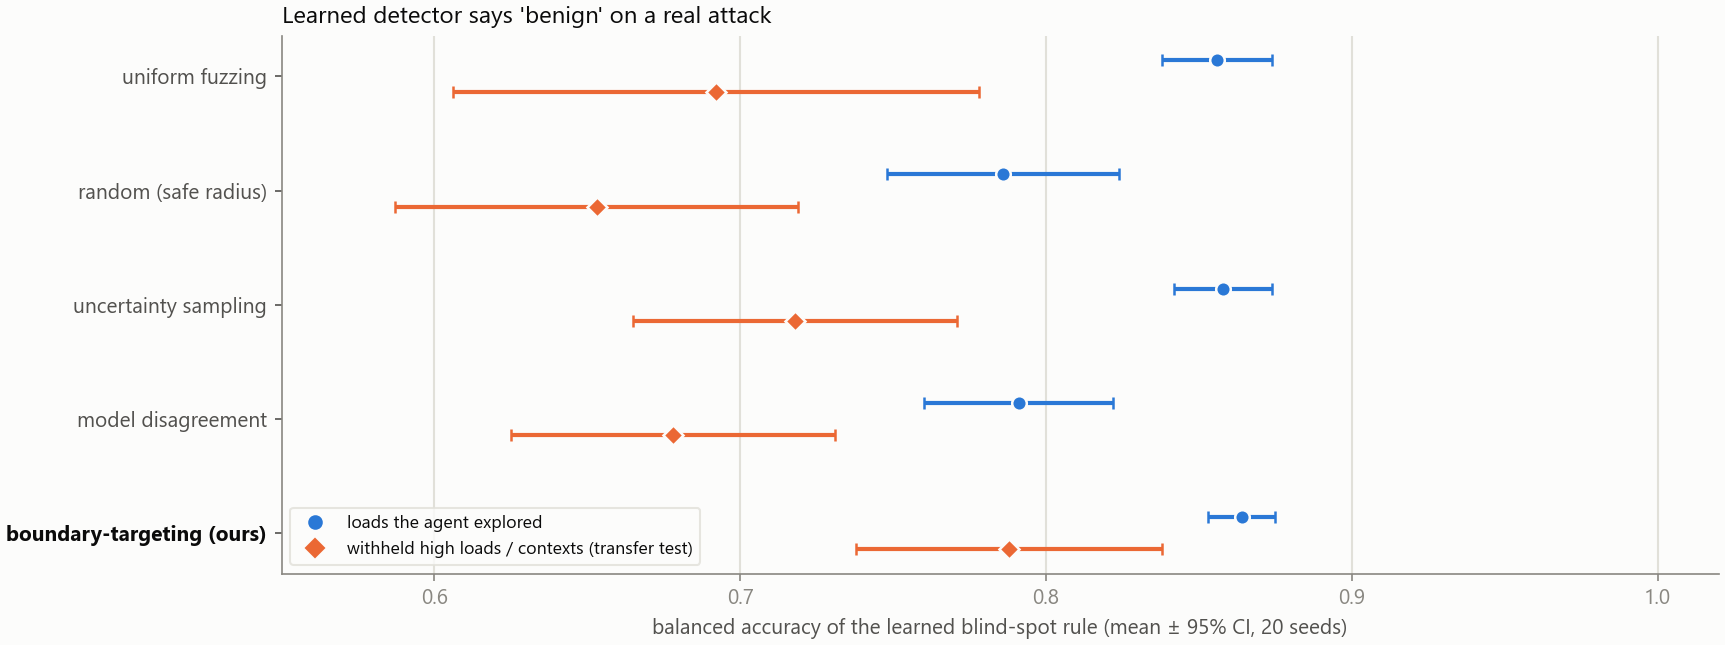
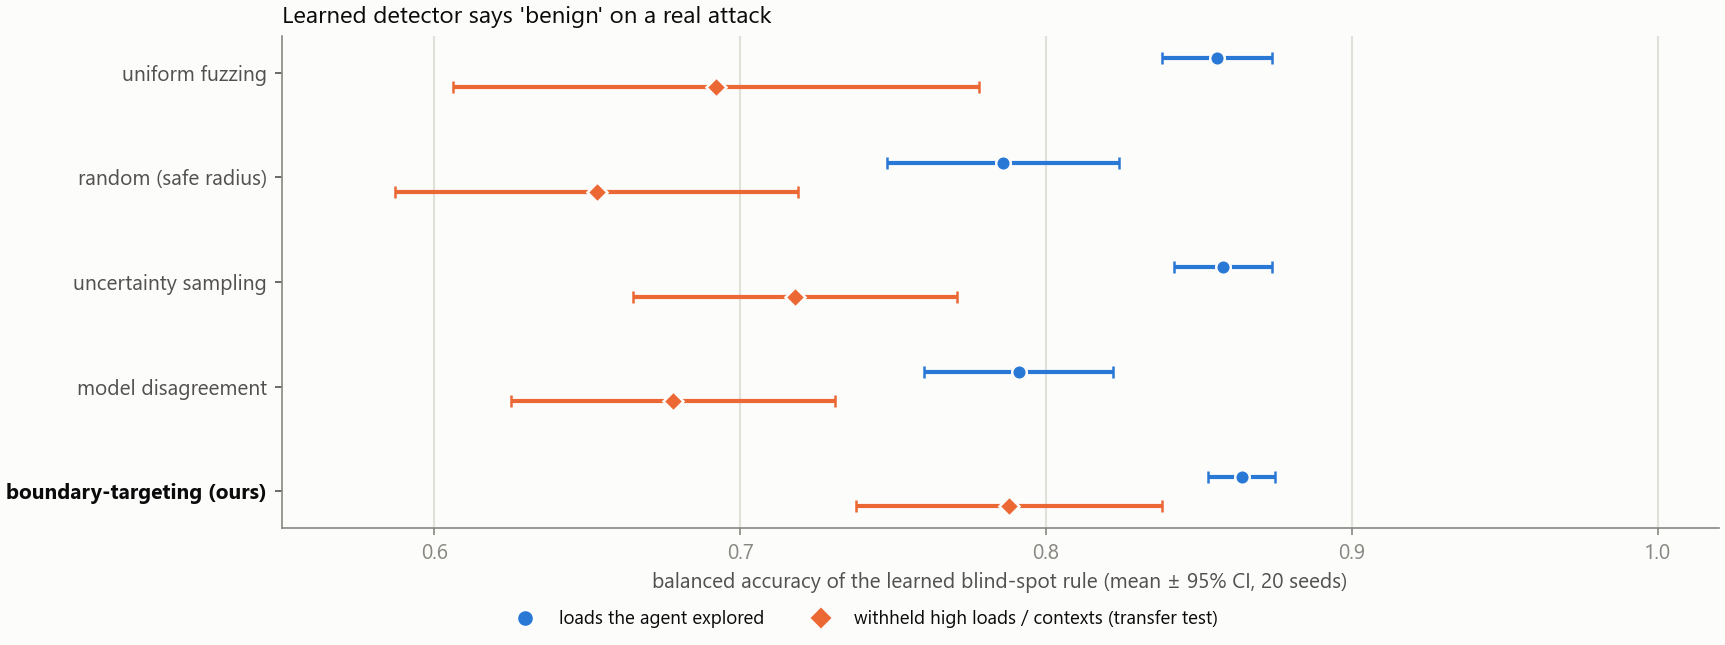
Add real-data audit on KDD Cup 99 and report the negative result
Learned detector with held-out attack families probed with real records.
Uniform fuzzing beats boundary-targeting here; the README now includes a
scorecard stating where the method does and does not win. Also fixes chart
legend placement and axis ranges.

diff --git a/abd/real_detector_env.py b/abd/real_detector_env.py
@@ -1,0 +1,82 @@
+"""Real-data audit: a learned intrusion detector on the public KDD Cup 99 (10%) dataset.
+
+Nothing is planted here. The detector is a gradient-boosted classifier trained on normal
+traffic plus the common attack families; the rare remote-to-local / user-to-root families
+are held out of training, which gives the detector a natural coverage gap.
+
+The agent probes the detector with REAL attack records. A query is a point x in [0,1]^3,
+the rank-normalised values of three interpretable features:
+  x0 = destination bytes   (the 'context' axis; high ranks are withheld from exploration)
+  x1 = source bytes
+  x2 = connection count
+The environment snaps x to the nearest real attack record and returns the detector's
+attack probability for it (random choice among the 3 nearest, which gives query noise).
+Ground truth used for scoring is the detector's decision on the nearest record.
+
+Data note: KDD Cup 99 is old and has known redundancy/artifacts. It is used here as a
+public, real, labelled benchmark for the method, not as a model of modern traffic.
+Requires network on first use (scikit-learn downloads and caches the dataset).
+"""
+import functools
+
+import numpy as np
+import pandas as pd
+from scipy.spatial import cKDTree
+from sklearn.datasets import fetch_kddcup99
+from sklearn.ensemble import HistGradientBoostingClassifier
+from sklearn.model_selection import train_test_split
+
+UNSEEN = ["warezclient", "guess_passwd", "buffer_overflow", "warezmaster", "imap", "rootkit",
+          "loadmodule", "ftp_write", "multihop", "phf", "perl", "spy"]
+KNOBS = ["dst_bytes", "src_bytes", "count"]
+
+
+@functools.lru_cache(maxsize=1)
+def _build(data_home=None):
+    df = fetch_kddcup99(percent10=True, as_frame=True, data_home=data_home).frame
+    df["labels"] = df["labels"].astype(str).str.strip(".")
+    for c in ["protocol_type", "service", "flag"]:
+        df[c] = df[c].astype(str).astype("category").cat.codes
+    feat = [c for c in df.columns if c != "labels"]
+    for c in feat:
+        df[c] = pd.to_numeric(df[c])
+    df["att"] = (df["labels"] != "normal").astype(int)
+    feat = [c for c in df.columns if c not in ("labels", "att")]
+    train = df[~df["labels"].isin(UNSEEN)]
+    tr, te = train_test_split(train, test_size=0.3, random_state=0, stratify=train["labels"])
+    model = HistGradientBoostingClassifier(max_iter=100, random_state=0).fit(tr[feat], tr["att"])
+    pool = pd.concat([te[te["att"] == 1], df[df["labels"].isin(UNSEEN)]])
+    pool = pool.groupby("labels", group_keys=False).sample(frac=1, random_state=0)   # shuffle, keep all cols
+    pool = pool.groupby("labels", group_keys=False).head(1500).sample(frac=1, random_state=1).reset_index(drop=True)
+    pool["p"] = model.predict_proba(pool[feat])[:, 1]
+    ranks = np.column_stack([pool[k].rank(method="first").values / len(pool) for k in KNOBS])
+    return pool, ranks, cKDTree(ranks)
+
+
+class RealDetectorEnv:
+    dim = 3
+    safety_limit = 1e9
+
+    def __init__(self, noise_seed=0, data_home=None):
+        self.pool, self.ranks, self.tree = _build(data_home)
+        self.p = self.pool["p"].values
+        self.rng = np.random.default_rng(noise_seed)
+        self.violations = 0
+        self.n_queries = 0
+
+    def truth(self, X):
+        _, idx = self.tree.query(np.atleast_2d(X))
+        return self.p[idx]
+
+    def family_of(self, X):
+        _, idx = self.tree.query(np.atleast_2d(X))
+        return self.pool["labels"].values[idx]
+
+    def run(self, x):
+        self.n_queries += 1
+        _, idx = self.tree.query(np.asarray(x, float), k=3)
+        return float(self.p[self.rng.choice(idx)])
+
+    def detector_report(self):
+        g = self.pool.groupby("labels")["p"].agg(lambda s: float((s >= 0.5).mean()))
+        return g.sort_values()

diff --git a/scripts/make_results.py b/scripts/make_results.py
@@ -7,6 +7,7 @@ import os
 import re
 
 import matplotlib
+import numpy as np
 
 matplotlib.use("Agg")
 import matplotlib.pyplot as plt
@@ -49,7 +50,8 @@ def blind_chart(src="blind_spot_results.txt", out="results_blind_spot.png"):
              "discriminating": "model disagreement", "boundary": "boundary-targeting (ours)"}
     titles = {"delta": "Blind spot: indistinguishable from no perturbation",
               "adaptive": "Blind spot: below load-adaptive alarm threshold",
-              "ml_detector": "Learned detector says 'benign' on a real attack"}
+              "ml_detector": "Learned detector says 'benign' on a real attack",
+              "real_kdd": "Real KDD Cup 99 attacks missed by a learned detector"}
     fig, axes = plt.subplots(1, len(blocks), figsize=(11.5, 4.3), sharey=True, constrained_layout=True)
     axes = [axes] if len(blocks) == 1 else axes
     for ax, (kind, rows) in zip(axes, blocks.items()):
@@ -63,12 +65,13 @@ def blind_chart(src="blind_spot_results.txt", out="results_blind_spot.png"):
         for t, k in zip(ax.get_yticklabels(), order):
             if k == "boundary":
                 t.set_fontweight("bold"); t.set_color(INK)
-        ax.set_xlim(0.55, 1.02); ax.xaxis.grid(True, color=GRID, lw=1); ax.set_axisbelow(True)
+        lo = min(rows[k][key][0] - rows[k][key][1] for k in order for key in ('logit_seen', 'logit_wh'))
+        ax.set_xlim(max(0.3, np.floor((lo - 0.02) / 0.05) * 0.05), 1.02); ax.xaxis.grid(True, color=GRID, lw=1); ax.set_axisbelow(True)
         ax.set_xlabel("balanced accuracy of the learned blind-spot rule (mean ± 95% CI, 20 seeds)")
         ax.set_title(titles[kind], loc="left", fontsize=11.5, color=INK)
     h1 = plt.Line2D([], [], color=BLUE, marker="o", ls="", label="loads the agent explored")
     h2 = plt.Line2D([], [], color=ORANGE, marker="D", ls="", label="withheld high loads / contexts (transfer test)")
-    axes[0].legend(handles=[h1, h2], loc="lower left", fontsize=8.5, facecolor=SURF, edgecolor=GRID)
+    fig.legend(handles=[h1, h2], loc="outside lower center", ncol=2, fontsize=9, frameon=False)
     fig.savefig(os.path.join(OUT, out), dpi=150)
     plt.close(fig)
 
@@ -120,6 +123,9 @@ if __name__ == "__main__":
     if os.path.exists(os.path.join(RES, "ml_detector_results.txt")):
         blind_chart("ml_detector_results.txt", "results_ml_detector.png")
         terminal("terminal_ml_detector.png", "ml_detector_results.txt", "python run_ml_detector.py 20", 24)
+    if os.path.exists(os.path.join(RES, "real_detector_results.txt")):
+        blind_chart("real_detector_results.txt", "results_real_detector.png")
+        terminal("terminal_real_detector.png", "real_detector_results.txt", "python run_real_detector.py 20", 40)
     missing_chart()
     terminal("terminal_missing_variable.png", "missing_variable_results.txt", "python run_missing.py 20", 10)
     print("results assets done")

diff --git a/run_real_detector.py b/run_real_detector.py
@@ -1,0 +1,56 @@
+"""Real-data audit (KDD Cup 99): where does a learned intrusion detector go blind, found black-box?
+
+Same output format as run_blind.py so scripts/make_results.py can chart it.
+"""
+import sys
+
+import numpy as np
+
+from abd.blindspot import LOAD_CAP, BlindAgent
+from abd.real_detector_env import UNSEEN, RealDetectorEnv
+from run_blind import bal_acc, ci
+
+_e = RealDetectorEnv()
+T = np.random.default_rng(99).uniform(0, 1, (6000, 3))
+TRUE = _e.truth(T) < 0.5
+SEEN = T[:, 0] <= LOAD_CAP
+POOL_MISS = _e.p < 0.5
+FAM = _e.pool["labels"].values
+
+
+def trial(strategy, seed, budget=60):
+    env = RealDetectorEnv(noise_seed=seed)
+    a = BlindAgent(env, strategy, step_radius=0.2, seed=seed, label_mode="real")
+    a.bootstrap(n=25, hi=0.6)
+    a.calibrate_null()
+    a.explore(budget)
+    a.blind_rule()
+    out = []
+    for p in (a.predict_blind(T), a.predict_blind_logit(T)):
+        out += [bal_acc(p[SEEN], TRUE[SEEN]), bal_acc(p[~SEEN], TRUE[~SEEN])]
+    return (*out, a, a.predict_blind_logit(env.ranks))
+
+
+if __name__ == "__main__":
+    n = int(sys.argv[1]) if len(sys.argv) > 1 else 20
+    rep = _e.detector_report()
+    print("##### ground truth: detector recall by attack family (probe pool, never shown to the agent)")
+    print("held-out families (not in training): " + ", ".join(UNSEEN))
+    print("lowest recall : " + ", ".join(f"{k} {v:.2f}" for k, v in rep.head(8).items()))
+    print(f"pool of real attack records: {len(_e.pool)}, missed by the detector: {POOL_MISS.mean():.1%}")
+    print(f"\n##### blind-spot type: real_kdd  (true share: seen contexts {TRUE[SEEN].mean():.2f}, withheld {TRUE[~SEEN].mean():.2f})")
+    store, ex = {}, None
+    for s in ["uniform", "random", "uncertainty", "discriminating", "boundary"]:
+        R = [trial(s, i) for i in range(n)]
+        store[s] = np.array([r[5] for r in R])
+        print(f"{s:15s} TREE seen {ci([r[0] for r in R])} withheld {ci([r[1] for r in R])} | "
+              f"LOGIT seen {ci([r[2] for r in R])} withheld {ci([r[3] for r in R])}", flush=True)
+        if s == "boundary":
+            ex = R[0][4]
+    print("\n##### share of REAL records the agent's rule flags as a blind spot (mean over seeds, logistic rule)")
+    print(f"{'':16s}{'missed families':>16s}{'caught families':>17s}")
+    for s, P in store.items():
+        flag = P.mean(0)                                   # per-record flag frequency across seeds
+        print(f"{s:16s}{flag[POOL_MISS].mean():16.2f}{flag[~POOL_MISS].mean():17.2f}")
+    print("(first column = fraction of truly-missed attack records flagged; second = false-flag rate on detected ones)")
+    print("\nExample tree rule (boundary agent, seed 0; axes: load=dst_bytes rank, magnitude=src_bytes rank, non_stealth=count rank):\n" + ex.rules())

diff --git a/abd/blindspot.py b/abd/blindspot.py
@@ -38,10 +38,14 @@ class BlindAgent(Agent):
         z = [self.env.run([l, 0.0, self.rng.uniform()]) for l in L]
         self.null = _poly(2).fit(L[:, None], z)
 
+    def _impact(self, X):
+        # real-data mode: every probed record is a genuine attack, so every point is 'impactful'
+        return np.ones(len(X), bool) if self.mode == "real" else X[:, 1] > IMPACT
+
     def labels(self, X, y):
-        impact = X[:, 1] > IMPACT
+        impact = self._impact(X)
         ref = self.null.predict(X[:, :1])
-        if self.mode == "absolute":
+        if self.mode in ("absolute", "real"):
             blind = impact & (y < 0.5)                       # learned detector says 'benign' on a real attack
         elif self.mode == "adaptive":
             blind = impact & (y < adaptive_threshold(ref))   # detector would not raise an alarm
@@ -66,7 +70,7 @@ class BlindAgent(Agent):
                 rf = RandomForestClassifier(100, min_samples_leaf=2, random_state=self.seed)
                 rf.fit(Xa[impact], blind[impact])
                 unc = 1 - np.abs(2 * rf.predict_proba(C)[:, 1] - 1)
-                unc = np.where(C[:, 1] > IMPACT, unc, 0)       # only boundary inside impact zone
+                unc = np.where(self._impact(C), unc, 0)       # only boundary inside impact zone
                 score = unc if self.strategy == "uncertainty" else score / (score.max() + 1e-9) + unc
             elif self.strategy == "uncertainty":
                 score = self.rng.random(len(C))

diff --git a/README.md b/README.md
@@ -13,6 +13,17 @@ The testbed is **defensive and cyber-physical**: a simulated IEEE 14-bus power g
 
 > **Status: research prototype.** Everything below is computed by the code in this repo, on simulators I built or configured, so the results show the method works *in these sandboxes*. They are not evidence it works on real infrastructure. See [Limitations and prior art](#limitations-and-prior-art) before quoting any number.
 
+### Scorecard (read this first)
+
+| Setting | Boundary-targeting vs baselines |
+|---|---|
+| Grid detector, two blind-spot types (simulated) | **Better**, including on withheld loads |
+| Missing-variable discovery (simulated, planted driver) | **Better** with targeted design (p = 0.031 with confirmation) |
+| Learned ML detector, synthetic gap (planted) | Best, but overlaps uncertainty sampling |
+| **Learned detector, real KDD Cup 99 data** | **Not better: uniform fuzzing wins** |
+
+The method works where I built the environment. It did not beat the simplest baseline on the one real dataset tested so far.
+
 ---
 
 ## The idea in one picture
@@ -122,6 +133,29 @@ The detector's blind spot follows its **training gap**, not the attack: a strong
 - The tree rules in the saved output call the context knob `load` because the engine reuses the grid sandbox's input layout.
 - Next steps for credibility: real public intrusion-detection datasets, several model families, and comparison with robustness-testing tools.
 
+### 4. Real data: a learned detector on KDD Cup 99 (a negative result)
+
+Nothing is planted here. A gradient-boosted detector is trained on the public [KDD Cup 99](https://archive.ics.uci.edu/dataset/130/kdd+cup+1999+data) (10%) records using normal traffic plus the common attack families; twelve rare remote-to-local and user-to-root families are held out of training. The agent probes the detector with **real attack records**: a query is a point in a 3-feature rank space (destination bytes, source bytes, connection count), snapped to the nearest real record. Ground truth for scoring is the detector's actual decision on that record.
+
+The detector has a natural gap: recall is 0.00 on `guess_passwd`, `ftp_write`, `loadmodule`, `multihop`, `phf`, `rootkit`, `perl` and `spy`, and it misses 18.2% of the 6,450-record probe pool. Destination-bytes ranks above 0.7 are withheld from exploration.
+
+<p align="center"><img src="assets/results_real_detector.png" width="760" alt="Dot plot of blind-spot rule accuracy by strategy on real KDD Cup 99 records"></p>
+
+**Result: on real data, boundary-targeting does not win.** With the logistic rule, plain **uniform fuzzing is best** (0.865 ± 0.013 explored, 0.709 ± 0.033 withheld). Boundary-targeting scores 0.783 ± 0.017 and 0.686 ± 0.026; the two intervals do not overlap on the explored contexts, and overlap on the withheld ones. Random exploration with the safe-expansion radius (0.865 / 0.655) is also at or above the three model-based strategies on explored contexts.
+
+What I think this means (hypotheses, not tested here):
+- **The safe-expansion radius probably costs accuracy.** Uniform fuzzing is the only strategy that ignores it. On an offline dataset the constraint protects nothing, so it only slows reaching distant clusters. A fair test needs a setting where unsafe queries really are costly.
+- **Real blind spots are fragmented.** They are clusters of rare families, not smooth regions, and a 3-feature rank projection is a coarse view of them.
+- **Withheld contexts are hard for every method**, and every strategy lands between about 0.60 and 0.71.
+
+On the agent's rule over the real records, uniform flags 89% of the truly missed records (and 18% of the detected ones); boundary-targeting flags 68% (and 16%). So on this dataset the model-based strategies are more conservative, not more accurate.
+
+<details><summary>Raw output</summary>
+<p align="center"><img src="assets/terminal_real_detector.png" width="900" alt="Terminal output of run_real_detector.py"></p>
+</details>
+
+**What this does and does not change.** It shows the audit pipeline runs end to end on real labelled data and recovers a large share of a real detector's blind spots. It also shows the advantage I measured in simulation does **not** carry over, so the simulator results should not be read as evidence that targeted exploration beats fuzzing in general. KDD Cup 99 is old and has known redundancy, so the next check is a newer dataset (CICIoT2023 is the candidate).
+
 ### How the agent works
 
 | Step | Implementation |
@@ -157,6 +191,7 @@ python run_grid.py                  # stage 1: grid detector, prediction error
 python run_blind.py 20              # stage 2: blind-spot map + withheld-load transfer (slow)
 python run_missing.py 20            # stage 3: missing-variable discovery
 python run_ml_detector.py 20        # stage 4: audit a learned (ML) detector + shortcut test
+python run_real_detector.py 20      # stage 5: real KDD Cup 99 data (downloads ~2 MB via scikit-learn)
 python scripts/make_media.py        # regenerate the GIFs and heatmap (needs PYTHONPATH=.)
 python scripts/make_results.py      # regenerate the charts from results/*.txt
 ```
@@ -173,7 +208,8 @@ abd/
   grid_ctx_env.py   same, plus a hidden temperature driver and context channels
   blindspot.py      blind-spot agent, load withholding, adaptive-threshold labels
   ml_detector_env.py  learned (gradient-boosted) detector on synthetic traffic with a training gap
-run_demo.py  run_grid.py  run_blind.py  run_missing.py  run_ml_detector.py
+  real_detector_env.py  same audit on real KDD Cup 99 records (held-out attack families)
+run_demo.py  run_grid.py  run_blind.py  run_missing.py  run_ml_detector.py  run_real_detector.py
 scripts/            make_media.py (GIFs, heatmap), make_results.py (charts)
 results/            saved outputs of the 20-seed runs
 tests/              smoke tests
@@ -202,7 +238,8 @@ Hidden-variable discovery with active experiments is already being pursued in ge
 
 - Cheaper, sequential confirmation for the missing-variable step
 - Baselines from the closest prior art (safe level-set sampling, BO falsification)
-- Environments I did not design (larger grids, other domains, real public intrusion-detection datasets, several model families)
+- A newer real dataset (CICIoT2023) and several model families; test whether the safe-expansion radius is what hurts on offline data
+- Environments I did not design (larger grids, other domains)
 - Explicit hypothesis-based experiment selection (expected information gain) instead of committee disagreement
 - A benchmark of procedurally generated hidden-rule environments
 
